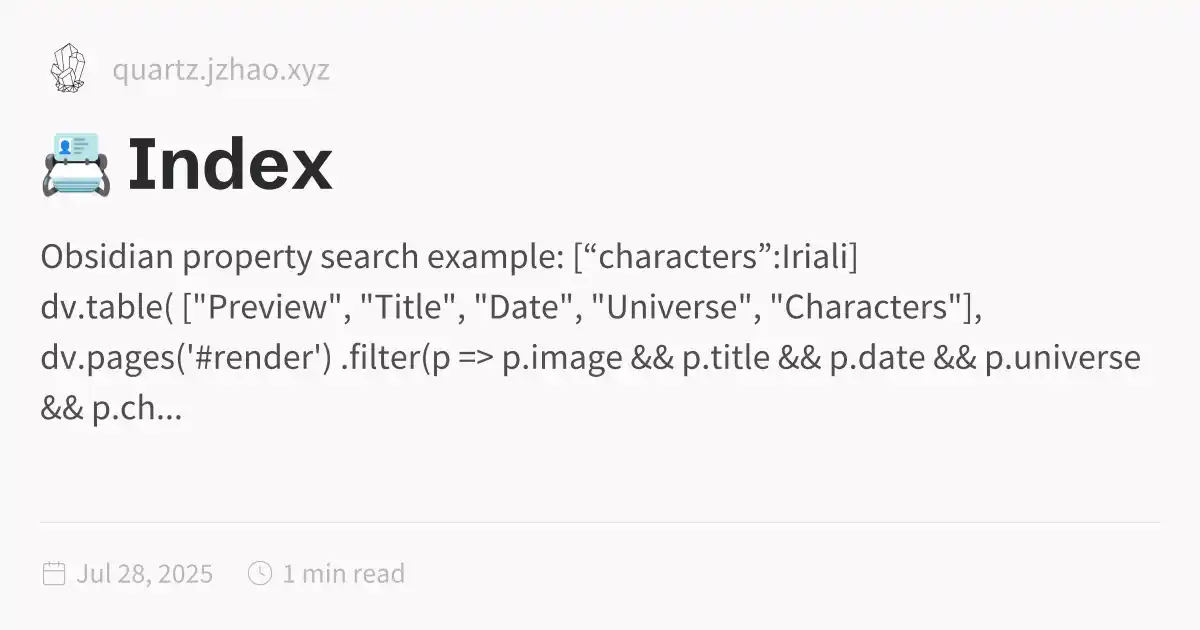
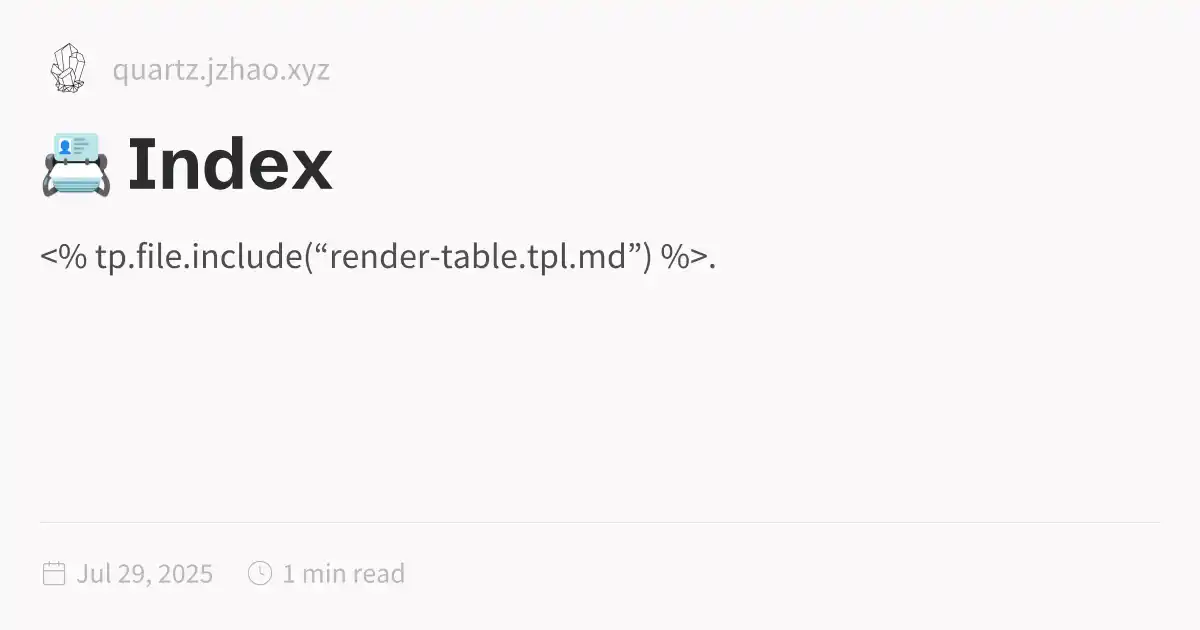
DEK-BeliiDrakon 2025-7-29:2:2:19

diff --git a/public/Blender-Archive/📇-Index.html b/public/Blender-Archive/📇-Index.html
@@ -1,5 +1,5 @@
 <!DOCTYPE html>
-<html lang="en"><head><title>📇 Index</title><meta charset="utf-8"/><link rel="preconnect" href="https://fonts.googleapis.com"/><link rel="preconnect" href="https://fonts.gstatic.com"/><link rel="stylesheet" href="https://fonts.googleapis.com/css2?family=Schibsted Grotesk:wght@400;700&amp;family=Source Sans Pro:ital,wght@0,400;0,600;1,400;1,600&amp;family=IBM Plex Mono:wght@400;600&amp;display=swap"/><link rel="preconnect" href="https://cdnjs.cloudflare.com" crossorigin="anonymous"/><meta name="viewport" content="width=device-width, initial-scale=1.0"/><meta name="og:site_name" content="Quartz 4"/><meta property="og:title" content="📇 Index"/><meta property="og:type" content="website"/><meta name="twitter:card" content="summary_large_image"/><meta name="twitter:title" content="📇 Index"/><meta name="twitter:description" content="Obsidian property search example: [“characters”:Iriali] dv.table( [&quot;Preview&quot;, &quot;Title&quot;, &quot;Date&quot;, &quot;Universe&quot;, &quot;Characters&quot;], dv.pages('#render') .filter(p => p.image &amp;&amp; p.title &amp;&amp; p.date &amp;&amp; p.universe &amp;&amp; p.ch..."/><meta property="og:description" content="Obsidian property search example: [“characters”:Iriali] dv.table( [&quot;Preview&quot;, &quot;Title&quot;, &quot;Date&quot;, &quot;Universe&quot;, &quot;Characters&quot;], dv.pages('#render') .filter(p => p.image &amp;&amp; p.title &amp;&amp; p.date &amp;&amp; p.universe &amp;&amp; p.ch..."/><meta property="og:image:alt" content="Obsidian property search example: [“characters”:Iriali] dv.table( [&quot;Preview&quot;, &quot;Title&quot;, &quot;Date&quot;, &quot;Universe&quot;, &quot;Characters&quot;], dv.pages('#render') .filter(p => p.image &amp;&amp; p.title &amp;&amp; p.date &amp;&amp; p.universe &amp;&amp; p.ch..."/><meta property="twitter:domain" content="quartz.jzhao.xyz"/><meta property="og:url" content="https://quartz.jzhao.xyz/Blender-Archive/📇-Index"/><meta property="twitter:url" content="https://quartz.jzhao.xyz/Blender-Archive/📇-Index"/><link rel="icon" href="../static/icon.png"/><meta name="description" content="Obsidian property search example: [“characters”:Iriali] dv.table( [&quot;Preview&quot;, &quot;Title&quot;, &quot;Date&quot;, &quot;Universe&quot;, &quot;Characters&quot;], dv.pages('#render') .filter(p => p.image &amp;&amp; p.title &amp;&amp; p.date &amp;&amp; p.universe &amp;&amp; p.ch..."/><meta name="generator" content="Quartz"/><link href="../index.css" rel="stylesheet" type="text/css" spa-preserve/><style>.expand-button {
+<html lang="en"><head><title>📇 Index</title><meta charset="utf-8"/><link rel="preconnect" href="https://fonts.googleapis.com"/><link rel="preconnect" href="https://fonts.gstatic.com"/><link rel="stylesheet" href="https://fonts.googleapis.com/css2?family=Schibsted Grotesk:wght@400;700&amp;family=Source Sans Pro:ital,wght@0,400;0,600;1,400;1,600&amp;family=IBM Plex Mono:wght@400;600&amp;display=swap"/><link rel="preconnect" href="https://cdnjs.cloudflare.com" crossorigin="anonymous"/><meta name="viewport" content="width=device-width, initial-scale=1.0"/><meta name="og:site_name" content="Quartz 4"/><meta property="og:title" content="📇 Index"/><meta property="og:type" content="website"/><meta name="twitter:card" content="summary_large_image"/><meta name="twitter:title" content="📇 Index"/><meta name="twitter:description" content="&lt;% tp.file.include(“render-table.tpl.md”) %>."/><meta property="og:description" content="&lt;% tp.file.include(“render-table.tpl.md”) %>."/><meta property="og:image:alt" content="&lt;% tp.file.include(“render-table.tpl.md”) %>."/><meta property="twitter:domain" content="quartz.jzhao.xyz"/><meta property="og:url" content="https://quartz.jzhao.xyz/Blender-Archive/📇-Index"/><meta property="twitter:url" content="https://quartz.jzhao.xyz/Blender-Archive/📇-Index"/><link rel="icon" href="../static/icon.png"/><meta name="description" content="&lt;% tp.file.include(“render-table.tpl.md”) %>."/><meta name="generator" content="Quartz"/><link href="../index.css" rel="stylesheet" type="text/css" spa-preserve/><style>.expand-button {
   position: absolute;
   display: flex;
   float: right;
@@ -116,21 +116,7 @@ pre:hover > .expand-button {
   padding: 0 12px;
   font-size: 14px;
 }
[1 lines of base64/hex data omitted]
-<hr/>
-<figure data-rehype-pretty-code-figure><pre tabindex="0" data-language="dataviewjs" data-theme="github-light github-dark"><code data-language="dataviewjs" data-theme="github-light github-dark" style="display:grid;"><span data-line><span>dv.table(</span></span>
-<span data-line><span>  [&quot;Preview&quot;, &quot;Title&quot;, &quot;Date&quot;, &quot;Universe&quot;, &quot;Characters&quot;],</span></span>
-<span data-line><span>  dv.pages('#render')</span></span>
-<span data-line><span>    .filter(p => p.image &amp;&amp; p.title &amp;&amp; p.date &amp;&amp; p.universe &amp;&amp; p.characters)</span></span>
-<span data-line><span>    .sort(p => p.date, &quot;desc&quot;)</span></span>
-<span data-line><span>    .map(p => [</span></span>
-<span data-line><span>      `![|100](${p.image})`, // Thumbnail preview (100px wide)</span></span>
-<span data-line><span>      p.file.link,</span></span>
-<span data-line><span>      p.date,</span></span>
-<span data-line><span>      p.universe,</span></span>
-<span data-line><span>      Array.isArray(p.characters) ? p.characters.join(&quot;, &quot;) : p.characters</span></span>
-<span data-line><span>    ])</span></span>
-<span data-line><span>);</span></span></code></pre></figure></article><hr/><div class="page-footer"></div></div><div class="right sidebar"><div class="graph"><h3>Graph View</h3><div class="graph-outer"><div class="graph-container" data-cfg="{&quot;drag&quot;:true,&quot;zoom&quot;:true,&quot;depth&quot;:1,&quot;scale&quot;:1.1,&quot;repelForce&quot;:0.5,&quot;centerForce&quot;:0.3,&quot;linkDistance&quot;:30,&quot;fontSize&quot;:0.6,&quot;opacityScale&quot;:1,&quot;showTags&quot;:true,&quot;removeTags&quot;:[],&quot;focusOnHover&quot;:false,&quot;enableRadial&quot;:false}"></div><button class="global-graph-icon" aria-label="Global Graph"><svg version="1.1" xmlns="http://www.w3.org/2000/svg" xmlns:xlink="http://www.w3.org/1999/xlink" x="0px" y="0px" viewBox="0 0 55 55" fill="currentColor" xml:space="preserve"><path d="M49,0c-3.309,0-6,2.691-6,6c0,1.035,0.263,2.009,0.726,2.86l-9.829,9.829C32.542,17.634,30.846,17,29,17
[1 lines of base64/hex data omitted]
                 s-3.542,0.634-4.898,1.688l-7.669-7.669C16.785,10.424,17,9.74,17,9c0-2.206-1.794-4-4-4S9,6.794,9,9s1.794,4,4,4
                 c0.74,0,1.424-0.215,2.019-0.567l7.669,7.669C21.634,21.458,21,23.154,21,25s0.634,3.542,1.688,4.897L10.024,42.562
                 C8.958,41.595,7.549,41,6,41c-3.309,0-6,2.691-6,6s2.691,6,6,6s6-2.691,6-6c0-1.035-0.263-2.009-0.726-2.86l12.829-12.829

diff --git a/public/Blender-Archive/index.html b/public/Blender-Archive/index.html
@@ -116,6 +116,6 @@ pre:hover > .expand-button {
   padding: 0 12px;
   font-size: 14px;
 }
[2 lines of base64/hex data omitted]
 </script><script type="module">function f(i,e){if(!i)return;function r(o){o.target===this&&(o.preventDefault(),o.stopPropagation(),e())}function t(o){o.key.startsWith("Esc")&&(o.preventDefault(),e())}i?.addEventListener("click",r),window.addCleanup(()=>i?.removeEventListener("click",r)),document.addEventListener("keydown",t),window.addCleanup(()=>document.removeEventListener("keydown",t))}function y(i){for(;i.firstChild;)i.removeChild(i.firstChild)}var h=class{constructor(e,r){this.container=e;this.content=r;this.setupEventListeners(),this.setupNavigationControls(),this.resetTransform()}isDragging=!1;startPan={x:0,y:0};currentPan={x:0,y:0};scale=1;MIN_SCALE=.5;MAX_SCALE=3;cleanups=[];setupEventListeners(){let e=this.onMouseDown.bind(this),r=this.onMouseMove.bind(this),t=this.onMouseUp.bind(this),o=this.resetTransform.bind(this);this.container.addEventListener("mousedown",e),document.addEventListener("mousemove",r),document.addEventListener("mouseup",t),window.addEventListener("resize",o),this.cleanups.push(()=>this.container.removeEventListener("mousedown",e),()=>document.removeEventListener("mousemove",r),()=>document.removeEventListener("mouseup",t),()=>window.removeEventListener("resize",o))}cleanup(){for(let e of this.cleanups)e()}setupNavigationControls(){let e=document.createElement("div");e.className="mermaid-controls";let r=this.createButton("+",()=>this.zoom(.1)),t=this.createButton("-",()=>this.zoom(-.1)),o=this.createButton("Reset",()=>this.resetTransform());e.appendChild(t),e.appendChild(o),e.appendChild(r),this.container.appendChild(e)}createButton(e,r){let t=document.createElement("button");return t.textContent=e,t.className="mermaid-control-button",t.addEventListener("click",r),window.addCleanup(()=>t.removeEventListener("click",r)),t}onMouseDown(e){e.button===0&&(this.isDragging=!0,this.startPan={x:e.clientX-this.currentPan.x,y:e.clientY-this.currentPan.y},this.container.style.cursor="grabbing")}onMouseMove(e){this.isDragging&&(e.preventDefault(),this.currentPan={x:e.clientX-this.startPan.x,y:e.clientY-this.startPan.y},this.updateTransform())}onMouseUp(){this.isDragging=!1,this.container.style.cursor="grab"}zoom(e){let r=Math.min(Math.max(this.scale+e,this.MIN_SCALE),this.MAX_SCALE),t=this.content.getBoundingClientRect(),o=t.width/2,n=t.height/2,c=r-this.scale;this.currentPan.x-=o*c,this.currentPan.y-=n*c,this.scale=r,this.updateTransform()}updateTransform(){this.content.style.transform=`translate(${this.currentPan.x}px, ${this.currentPan.y}px) scale(${this.scale})`}resetTransform(){this.scale=1;let e=this.content.querySelector("svg");this.currentPan={x:e.getBoundingClientRect().width/2,y:e.getBoundingClientRect().height/2},this.updateTransform()}},C=["--secondary","--tertiary","--gray","--light","--lightgray","--highlight","--dark","--darkgray","--codeFont"],E;document.addEventListener("nav",async()=>{let e=document.querySelector(".center").querySelectorAll("code.mermaid");if(e.length===0)return;E||=await import("https://cdnjs.cloudflare.com/ajax/libs/mermaid/11.4.0/mermaid.esm.min.mjs");let r=E.default,t=new WeakMap;for(let n of e)t.set(n,n.innerText);async function o(){for(let s of e){s.removeAttribute("data-processed");let a=t.get(s);a&&(s.innerHTML=a)}let n=C.reduce((s,a)=>(s[a]=window.getComputedStyle(document.documentElement).getPropertyValue(a),s),{}),c=document.documentElement.getAttribute("saved-theme")==="dark";r.initialize({startOnLoad:!1,securityLevel:"loose",theme:c?"dark":"base",themeVariables:{fontFamily:n["--codeFont"],primaryColor:n["--light"],primaryTextColor:n["--darkgray"],primaryBorderColor:n["--tertiary"],lineColor:n["--darkgray"],secondaryColor:n["--secondary"],tertiaryColor:n["--tertiary"],clusterBkg:n["--light"],edgeLabelBackground:n["--highlight"]}}),await r.run({nodes:e})}await o(),document.addEventListener("themechange",o),window.addCleanup(()=>document.removeEventListener("themechange",o));for(let n=0;n<e.length;n++){let v=function(){let g=l.querySelector("#mermaid-space"),m=l.querySelector(".mermaid-content");if(!m)return;y(m);let w=c.querySelector("svg").cloneNode(!0);m.appendChild(w),l.classList.add("active"),g.style.cursor="grab",u=new h(g,m)},M=function(){l.classList.remove("active"),u?.cleanup(),u=null},c=e[n],s=c.parentElement,a=s.querySelector(".clipboard-button"),d=s.querySelector(".expand-button"),p=window.getComputedStyle(a),L=a.offsetWidth+parseFloat(p.marginLeft||"0")+parseFloat(p.marginRight||"0");d.style.right=`calc(${L}px + 0.3rem)`,s.prepend(d);let l=s.querySelector("#mermaid-container");if(!l)return;let u=null;d.addEventListener("click",v),f(l,M),window.addCleanup(()=>{u?.cleanup(),d.removeEventListener("click",v)})}});
 </script><script src="https://cdn.jsdelivr.net/npm/katex@0.16.11/dist/contrib/copy-tex.min.js" type="application/javascript"></script><script src="../postscript.js" type="module"></script></html>

diff --git a/Templates/render-table.tpl.md.md b/Templates/render-table.tpl.md.md
@@ -1,0 +1,21 @@
+<%*
+// Fetch, filter, sort, and map your pages
+const rows = dv.pages('#render')
+  .filter(p => p.image && p.title && p.date && p.universe && p.characters)
+  .sort(p => p.date, 'desc')
+  .map(p => [
+    `![|100](${p.image})`,                       // 100px-wide thumbnail
+    p.file.link,                                 // internal link
+    p.date,                                      // date
+    p.universe,                                  // universe tag or field
+    Array.isArray(p.characters)
+      ? p.characters.join(', ')
+      : p.characters                             // characters list
+  ]);
+
+// Render the static Markdown table
+tR += dv.table(
+  ['Preview', 'Title', 'Date', 'Universe', 'Characters'],
+  rows
+);
+%>

diff --git a/content/Blender Archive/📇 Index.md b/content/Blender Archive/📇 Index.md
@@ -1,19 +1,1 @@
-Obsidian property search example: ["characters":Iriali]
-
----
-
-```dataviewjs
-dv.table(
-  ["Preview", "Title", "Date", "Universe", "Characters"],
-  dv.pages('#render')
-    .filter(p => p.image && p.title && p.date && p.universe && p.characters)
-    .sort(p => p.date, "desc")
-    .map(p => [
-      `![|100](${p.image})`, // Thumbnail preview (100px wide)
-      p.file.link,
-      p.date,
-      p.universe,
-      Array.isArray(p.characters) ? p.characters.join(", ") : p.characters
-    ])
-);
-```
+<% tp.file.include("render-table.tpl.md") %>
